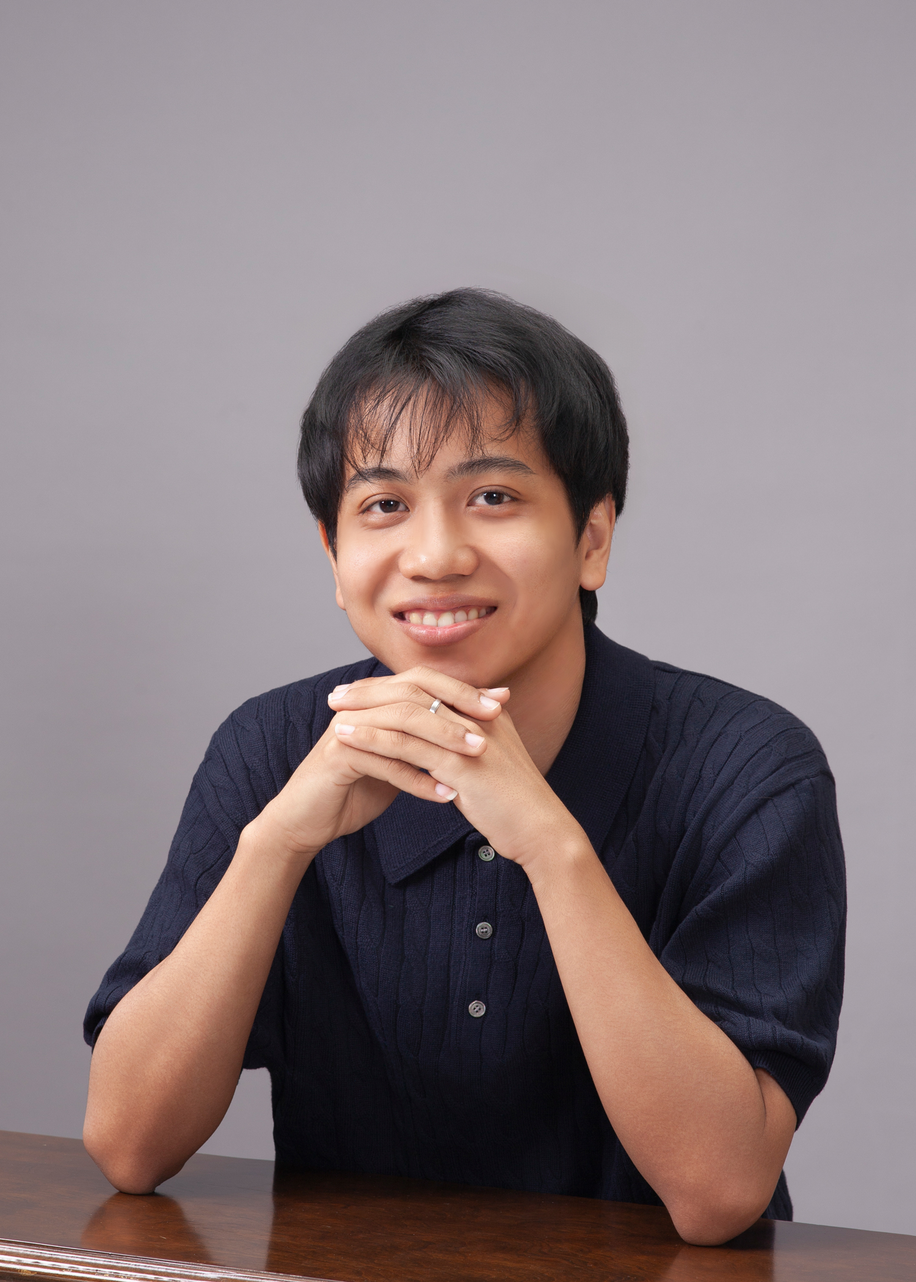
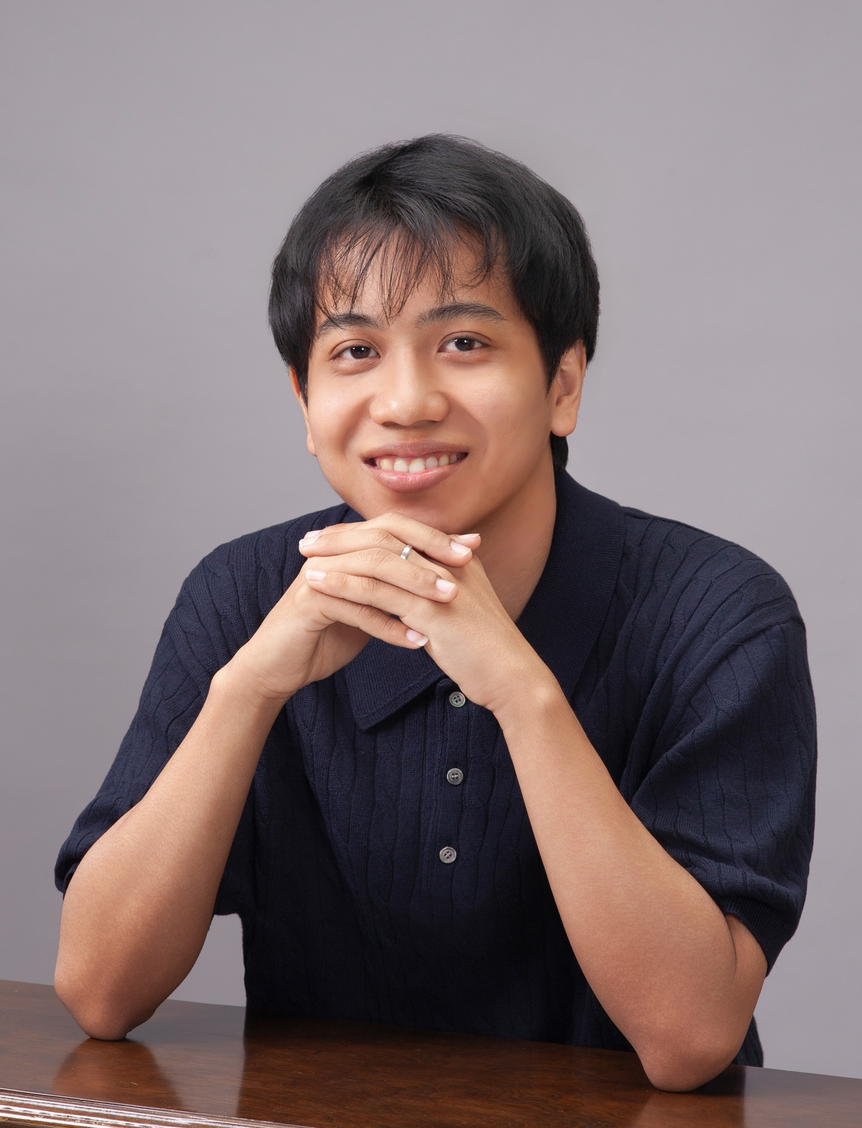
some updates to news and text

diff --git a/assets/css/jekyll-theme-chirpy.scss b/assets/css/jekyll-theme-chirpy.scss
@@ -62,3 +62,15 @@
 .publication-venue {
   margin-bottom: 0rem;
 }
+
+.w-40 {
+  width: 40% !important;
+}
+
+p {
+  text-align: justify;
+  hyphens: auto; /* Enables automatic hyphenation */
+  -webkit-hyphens: auto; /* Safari support */
+  text-justify: inter-word; /* Improves spacing on some browsers */
+  text-wrap: pretty; /* Fixes the last line of paragraphs */
+}

diff --git a/index.md b/index.md
@@ -7,11 +7,11 @@ toc: false
 
 I am currently pursuing my PhD in Robotics at the [University of Toronto Robotics Institute](https://robotics.utoronto.ca/), working with [Professor Jonathan Kelly](https://discover.research.utoronto.ca/20331-jonathan-kelly) in the [STARS Laboratory](https://starslab.ca). My research explores ideas from differential geometry to advance motion planning and task-level behaviors, making robots move and act more intelligently and efficiently.
 
-![Desktop View](/assets/img/about/phone.jpeg){: .w-50 .right}
+![Desktop View](/assets/img/about/phone.jpeg){: .w-40 .right}
 
-Previously, I worked in robotics at [Dyson](https://careers.dyson.com/en-gb/what-you-can-do/engineer/robotics/) and [LionsBot International](https://www.lionsbot.com), where I contributed to many autonomy software stacks and large-scale robotic deployments. I also conducted research at the ROAR Lab, [Singapore University of Technology and Design](https://www.sutd.edu.sg) under [Professor Mohan Rajesh Elara](https://www.sutd.edu.sg/profile/mohan-rajesh-elara/), and earlier studied Mechatronics Engineering at [Yangon Technological University](https://ytuedu.org), where I worked under Professor Theint Theint Thu. I hold a first-class honours degree in Electronic Engineering from the [University of Portsmouth](https://www.port.ac.uk).
+Previously, I worked in robotics at [Dyson](https://careers.dyson.com/en-gb/what-you-can-do/engineer/robotics/) and [LionsBot International](https://www.lionsbot.com), where I contributed to many autonomy software stacks and large-scale robotic deployments. I also conducted research at the ROAR Lab, Singapore University of Technology and Design under <span style="white-space: nowrap">Professor Mohan Rajesh Elara</span>, and earlier studied Mechatronics Engineering at Yangon Technological University, where I worked under Professor Theint Theint Thu. I hold a first-class honours degree in Electronic Engineering from the University of Portsmouth.
 
-You can find out more about me [here](/about) and view my curriculum vitae [here](/assets/docs/cv/index.html).
+You can find out more about me [here](/about) and view my CV [here](/assets/docs/cv/index.html).
 
 ### News
 {% include news.html limit=6 %}
